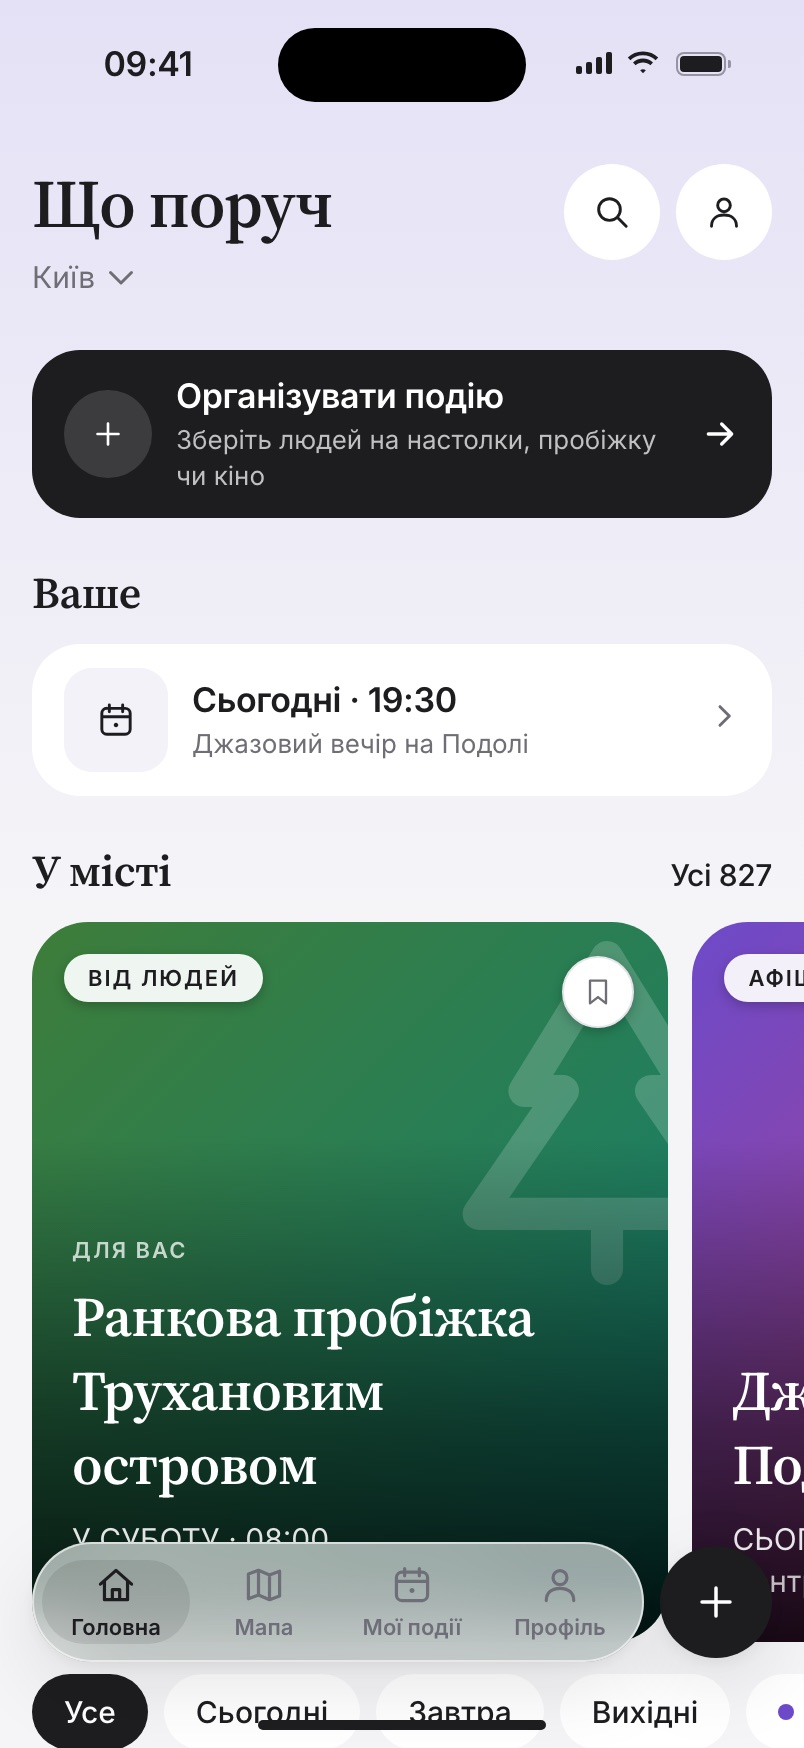
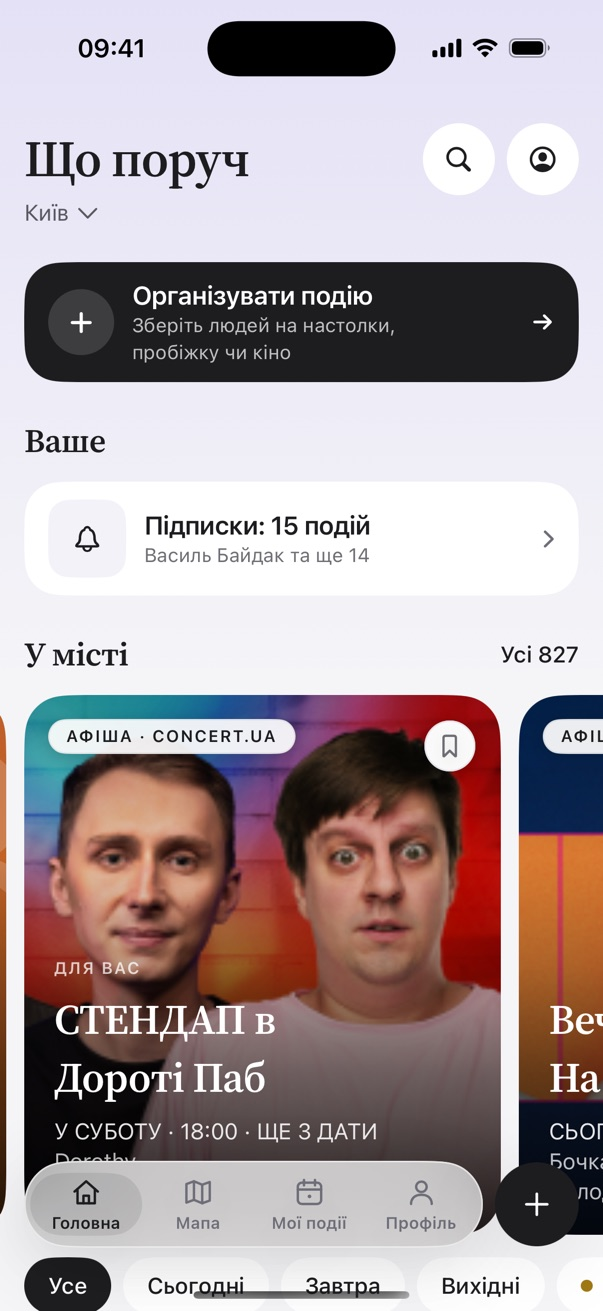
feat(site): справжні екрани Головної, Мапи й Моїх подій на лендингу
Замість демо-екранів макета — знімки iOS prod-збірки (Київ) без тестової
«Демо для перевірки застосунку» в кадрі.

diff --git a/site/index.html b/site/index.html
@@ -45,9 +45,9 @@
   </div>
   <div class="fan">
     <div class="phone"><img src="img/detail.jpg" alt="Сторінка події: обкладинка, час, місце й кнопка «Іду»"></div>
-    <div class="phone"><img src="img/home.jpg" alt="Головний екран: ваші плани й події в місті"></div>
-    <div class="phone"><img src="img/map.jpg" alt="Мапа Києва з кластерами подій і карткою настолок"></div>
-    <div class="phone"><img src="img/my-events.jpg" alt="Мої події: куди ви йдете цього тижня"></div>
+    <div class="phone"><img src="img/home.jpg" alt="Головний екран: підписки й афіша міста"></div>
+    <div class="phone"><img src="img/map.jpg" alt="Мапа Києва з кластерами подій і карткою стендапу"></div>
+    <div class="phone"><img src="img/my-events.jpg" alt="Мої події: збережені концерти й стендапи"></div>
   </div>
 </header>
 

diff --git a/site/README.md b/site/README.md
@@ -9,7 +9,7 @@
 | `terms.html`, `terms-en.html` | Terms / EULA з правилами UGC (Apple 1.2, Play UGC policy) |
 | `delete-account.html` | Обов'язковий веб-URL для Play «Account deletion» |
 | `bot.html` | Сторінка робота імпорту (`/bot` з User-Agent `PoriadBot`): що читає, як відмовитись |
-| `img/` | Екрани для лендингу: `detail`, `editor` — знімки iOS; `home`, `map`, `my-events` — з макета, демо-події |
+| `img/` | Екрани для лендингу — знімки iOS prod-збірки (603×1311). Без тестової «Демо для перевірки застосунку» в кадрі |
 | `CNAME`, `robots.txt` | Домен для GitHub Pages і дозвіл на індексацію |
 
 ## Перед публікацією
